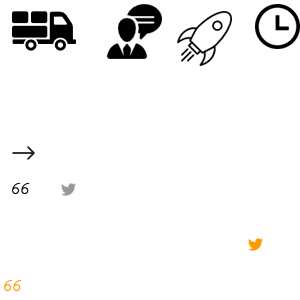
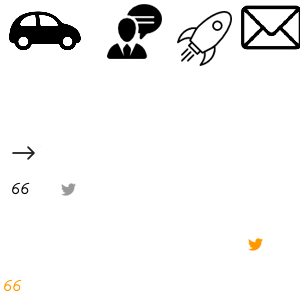
about, contact, home pages update..

Changed region(s): [[0.78, 0.0, 1.0, 0.18], [0.03, 0.03, 0.27, 0.18]]

diff --git a/LicensePlateCrimeWebApp/wwwroot/css/style.css b/LicensePlateCrimeWebApp/wwwroot/css/style.css
@@ -561,11 +561,18 @@ input[type="submit"],.header_left ul li a,.agile_back_home a,.agileits_social h5
     color: #999;
 }
 .agile_text_box i{
-	background:url(../images/img-sp.png) no-repeat -12px 0px;
+	
 	display:block;
 	width:64px;
 	height:64px;
 	margin:0 auto;
+}
+i.car{
+	background: url(../images/img-sp.png) no-repeat -12px 0px;
+	display: block;
+	width: 64px;
+	height: 64px;
+	margin: 0 auto;
 }
 i.men{
 	background:url(../images/img-sp.png) no-repeat -102px -1px;

diff --git a/LicensePlateCrimeWebApp/wwwroot/js/demo.js b/LicensePlateCrimeWebApp/wwwroot/js/demo.js
@@ -1,5 +1,8 @@
 $(document).ready(function() {
-	
+	$('.counter').counterUp({
+		delay: 10,
+		time: 1000
+	});
 	/* Simple Style */
 	$('.wrapper-simple input[type=submit]').toggle(function(){
 		

diff --git a/LicensePlateCrimeWebApp/Controllers/ContactController.cs b/LicensePlateCrimeWebApp/Controllers/ContactController.cs
@@ -1,0 +1,12 @@
+using Microsoft.AspNetCore.Mvc;
+
+namespace LicensePlateCrimeWebApp.Controllers
+{
+    public class ContactController : Controller
+    {
+        public IActionResult Index()
+        {
+            return View();
+        }
+    }
+}

diff --git a/LicensePlateCrimeWebApp/Controllers/AboutController.cs b/LicensePlateCrimeWebApp/Controllers/AboutController.cs
@@ -1,0 +1,12 @@
+using Microsoft.AspNetCore.Mvc;
+
+namespace LicensePlateCrimeWebApp.Controllers
+{
+    public class AboutController : Controller
+    {
+        public IActionResult Index()
+        {
+            return View();
+        }
+    }
+}
